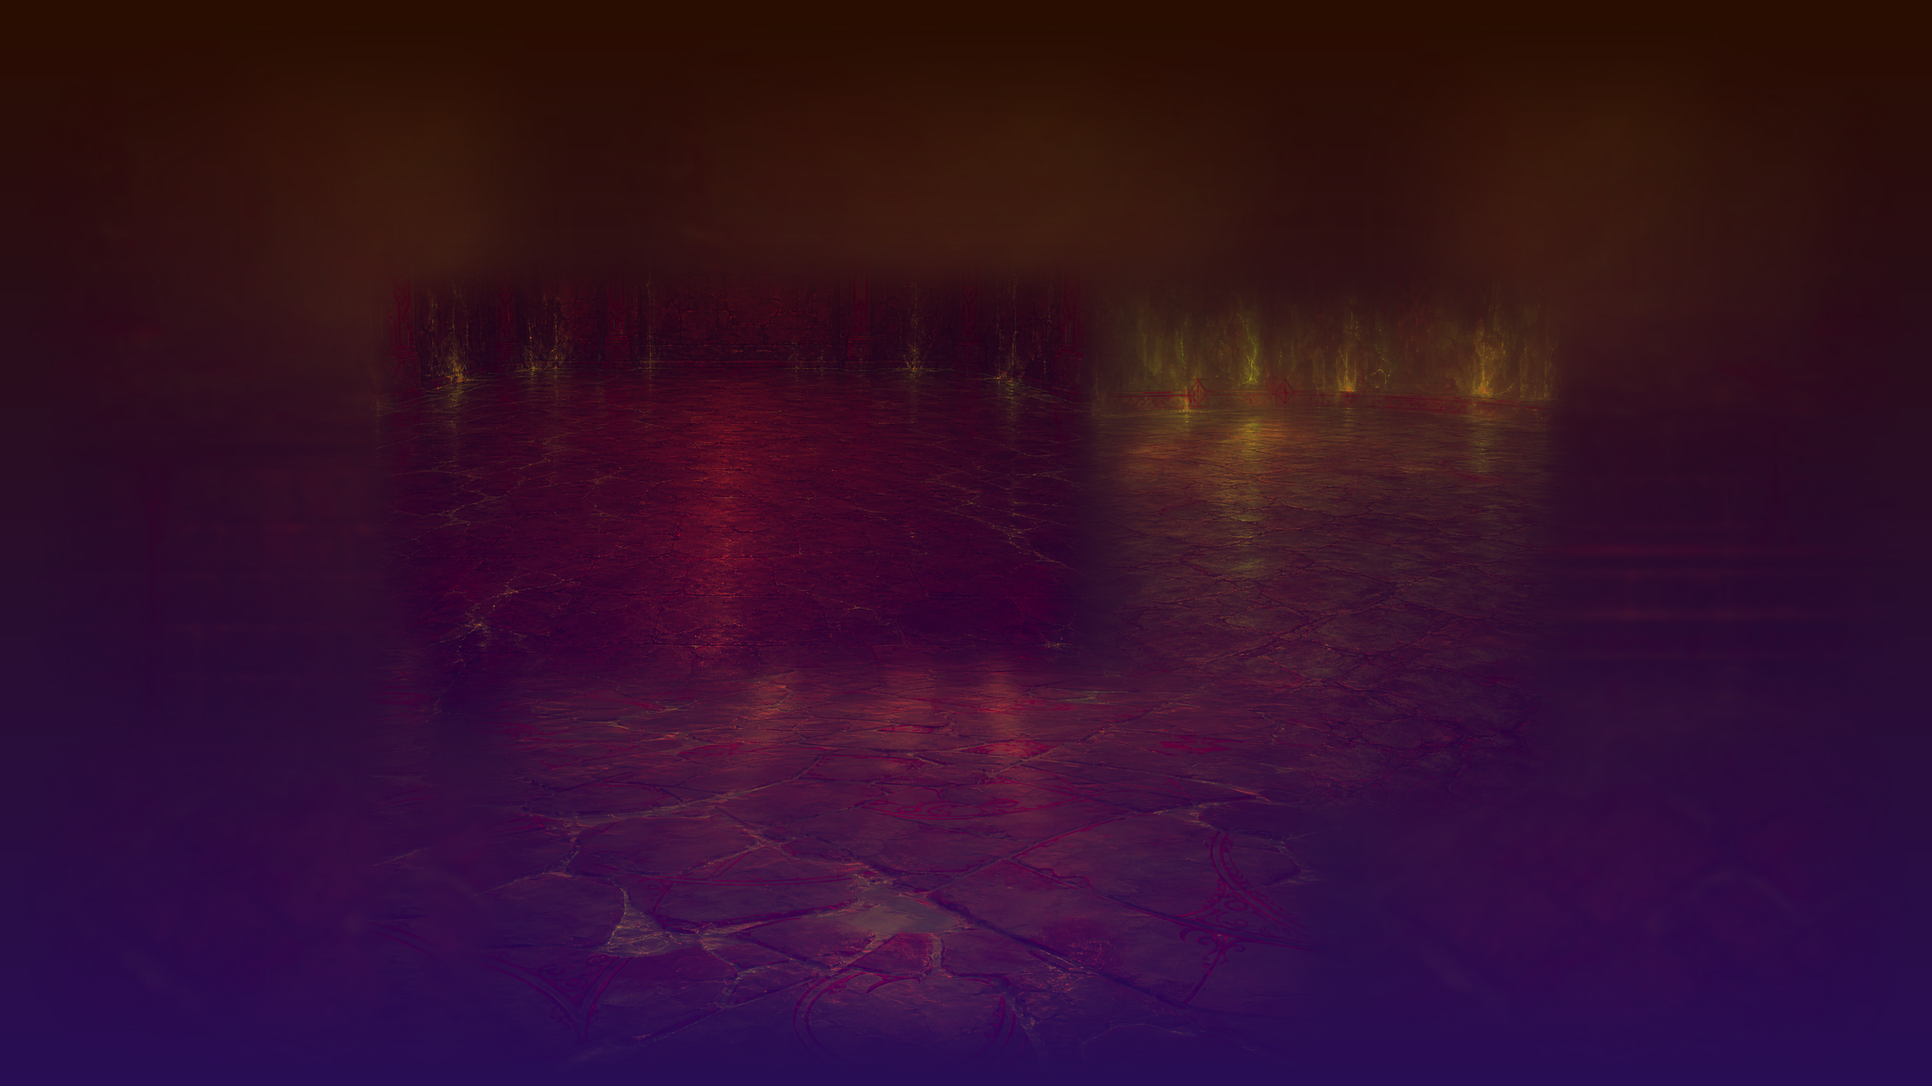
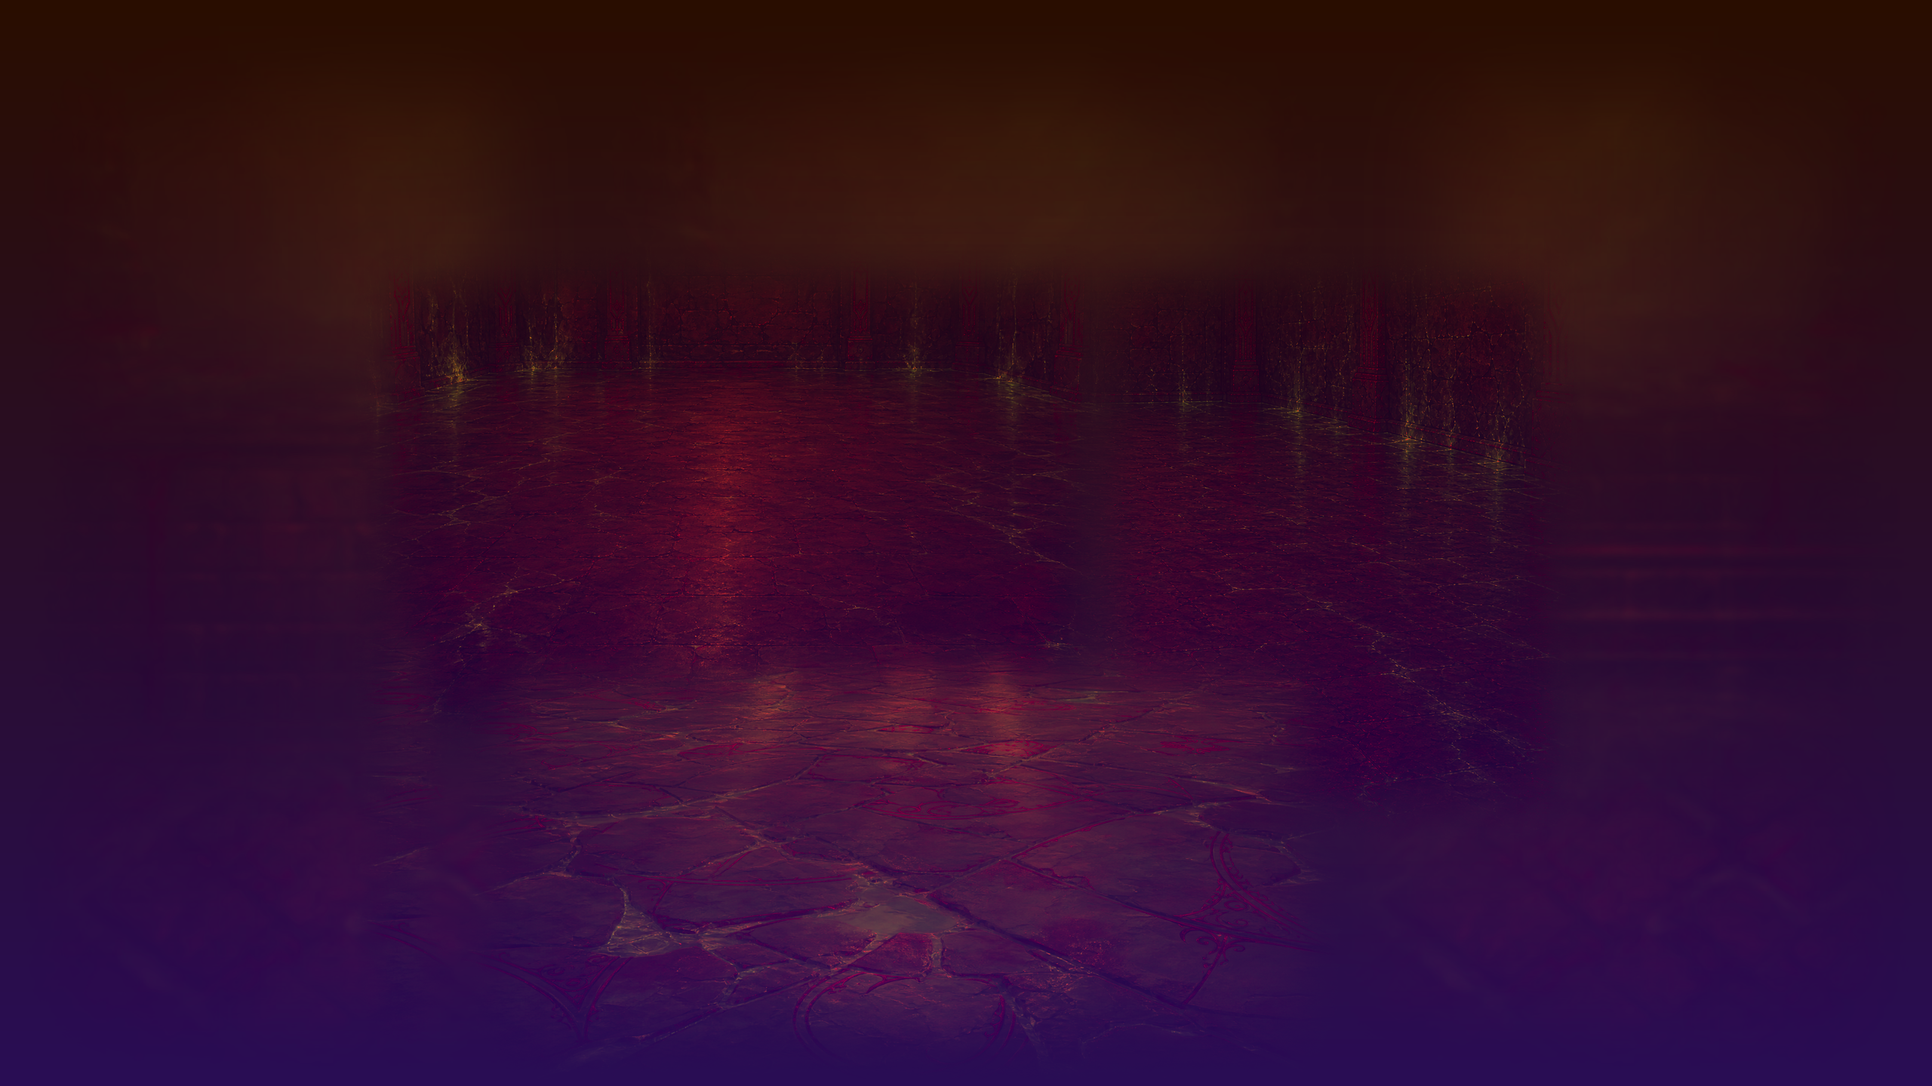
fix: harden native background delivery

Changed region(s): [[0.5625, 0.2812, 0.8125, 0.6562], [0.6875, 0.6875, 0.7188, 0.7188]]

diff --git a/tests/platform/native_room_background_asset_pipeline_tests.py b/tests/platform/native_room_background_asset_pipeline_tests.py
@@ -11,6 +11,7 @@ import tempfile
 import unittest
 from collections import Counter
 from pathlib import Path
+from shutil import copy2
 
 from PIL import Image, ImageStat
 
@@ -18,6 +19,7 @@ from PIL import Image, ImageStat
 ROOT = Path(__file__).resolve().parents[2]
 ECOLOGIES = ("fire", "water", "lightning", "chaos")
 SOURCE_MANIFEST = ROOT / "art_source/stage12/backgrounds/background-sources.json"
+CANDIDATE_MANIFEST = ROOT / "art_source/stage12/backgrounds/candidates/candidate-manifest.json"
 BUILDER = ROOT / "tools/build_native_room_backgrounds.py"
 REPORT = ROOT / "assets/stage12/room-background-build.json"
 CONTINUOUS_ROOM_ROI = (864, 486, 2976, 1674)
@@ -116,65 +118,52 @@ def edge_band_profile_jump(image: Image.Image, band: str) -> float:
     return max(abs(current - previous) for previous, current in zip(profile, profile[1:]))
 
 
+def right_overlap_metrics(image: Image.Image, main: dict[str, object], right: dict[str, object]) -> dict[str, float]:
+    """Measure the full main/right feather overlap, not one nominal boundary."""
+    main_left, main_top, main_right, main_bottom = main["target_rect"]  # type: ignore[index]
+    right_left, right_top, right_right, right_bottom = right["target_rect"]  # type: ignore[index]
+    left, end = max(main_left, right_left), min(main_right, right_right)
+    top, bottom = max(main_top, right_top) + 80, min(main_bottom, right_bottom) - 80
+    if end - left < 40 or bottom <= top:
+        raise AssertionError("main/right overlap is unexpectedly small")
+    luma = image.convert("L")
+    profile = [ImageStat.Stat(luma.crop((x, top, x + 1, bottom))).mean[0] for x in range(left, end)]
+    gradients = [abs(current - previous) for previous, current in zip(profile, profile[1:])]
+    band = max(12, len(profile) // 8)
+    return {
+        "start_luma": sum(profile[:band]) / band,
+        "end_luma": sum(profile[-band:]) / band,
+        "endpoint_drift": abs(sum(profile[:band]) / band - sum(profile[-band:]) / band),
+        "start_gradient": max(gradients[:band]),
+        "end_gradient": max(gradients[-band:]),
+        "internal_peak_gradient": max(gradients),
+    }
+
+
 class NativeRoomBackgroundAssetPipelineTests(unittest.TestCase):
-    def test_manifest_declares_four_isolated_ecologies_with_native_sources(self) -> None:
-        manifest = json.loads(SOURCE_MANIFEST.read_text(encoding="utf-8"))
-        self.assertEqual(set(manifest["ecologies"]), set(ECOLOGIES))
+    def _assert_all_ecology_build_contracts(self, root: Path) -> None:
+        builder = root / "tools/build_native_room_backgrounds.py"
+        self.assertTrue(builder.is_file())
         for ecology in ECOLOGIES:
-            entries = declared_sources(ecology)
-            self.assertGreaterEqual(len(entries), 3)
-            self.assertEqual(len({entry["path"] for entry in entries}), len(entries))
-            for entry in entries:
-                source = ROOT / entry["path"]
-                self.assertIn(f"/backgrounds/{ecology}/", entry["path"])
-                self.assertTrue(source.is_file(), source)
-                with Image.open(source) as image:
-                    self.assertGreaterEqual(image.width, 720)
-                    self.assertGreaterEqual(image.height, 720)
-
-    def test_indexed_clean_tree_contains_every_source_and_rebuilds_all_ecologies(self) -> None:
-        inputs = [entry["path"] for ecology in ECOLOGIES for entry in declared_sources(ecology)]
-        tracked = subprocess.run(["git", "ls-files", "--error-unmatch", "--", *inputs], cwd=ROOT, text=True, capture_output=True)
-        self.assertEqual(tracked.returncode, 0, tracked.stderr)
-        tree = subprocess.check_output(["git", "write-tree"], cwd=ROOT, text=True).strip()
-        with tempfile.TemporaryDirectory() as temporary:
-            archive = Path(temporary) / "candidate.tar"
-            with archive.open("wb") as stream:
-                subprocess.run(["git", "archive", "--format=tar", tree], cwd=ROOT, stdout=stream, check=True)
-            with tarfile.open(archive) as bundle:
-                bundle.extractall(temporary, filter="data")
-            clean_root = Path(temporary)
-            for path in inputs:
-                self.assertTrue((clean_root / path).is_file(), f"archive missing manifest input: {path}")
-            for ecology in ECOLOGIES:
-                rebuilt = subprocess.run([sys.executable, str(clean_root / "tools/build_native_room_backgrounds.py"), "--ecology", ecology], cwd=clean_root, text=True, capture_output=True)
-                self.assertEqual(rebuilt.returncode, 0, rebuilt.stderr or rebuilt.stdout)
-
-    def test_all_ecology_builds_are_native_distinct_and_combat_readable(self) -> None:
-        self.assertTrue(BUILDER.is_file())
-        for ecology in ECOLOGIES:
-            result = subprocess.run([sys.executable, str(BUILDER), "--ecology", ecology], cwd=ROOT, text=True, capture_output=True)
+            result = subprocess.run([sys.executable, str(builder), "--ecology", ecology], cwd=root, text=True, capture_output=True)
             self.assertEqual(result.returncode, 0, result.stderr or result.stdout)
-        report = json.loads(REPORT.read_text(encoding="utf-8"))
-        runtime_hashes: set[str] = set()
+        report = json.loads((root / "assets/stage12/room-background-build.json").read_text(encoding="utf-8"))
+        output_hashes = {"master": set(), "runtime": set(), "material": set()}
         for ecology in ECOLOGIES:
-            with self.subTest(ecology=ecology):
-                entries = declared_sources(ecology)
+            with self.subTest(root=root, ecology=ecology):
+                entries = declared_sources(ecology, root)
                 data = report["ecologies"][ecology]
-                master = ROOT / f"art_source/stage12/backgrounds/{ecology}/{ecology}-room-background-master.png"
-                runtime = ROOT / f"assets/stage12/{ecology}_room_background.png"
-                material = ROOT / f"assets/stage12/{ecology}_room_background_material.png"
+                master = root / f"art_source/stage12/backgrounds/{ecology}/{ecology}-room-background-master.png"
+                runtime = root / f"assets/stage12/{ecology}_room_background.png"
+                material = root / f"assets/stage12/{ecology}_room_background_material.png"
                 self.assertEqual(data["master_size"], [3840, 2160])
                 self.assertEqual(data["runtime_size"], [2560, 1440])
                 self.assertEqual(data["runtime_from_master"], {"resampling": "LANCZOS", "passes": 1})
-                self.assertEqual(data["source_sha256"], {entry["path"]: sha256(ROOT / entry["path"]) for entry in entries})
+                self.assertEqual(data["source_sha256"], {entry["path"]: sha256(root / entry["path"]) for entry in entries})
                 self.assertEqual(data["output_sha256"], {"master": sha256(master), "runtime": sha256(runtime), "material": sha256(material)})
                 self.assertTrue(all(f"/backgrounds/{ecology}/" in source for source in data["source_sha256"]))
-                self.assertEqual(
-                    {entry["path"] for entry in entries},
-                    {placement["source"] for placement in data["placements"]},
-                    "every declared source must be consumed by an actual placement",
-                )
+                self.assertTrue(all("/backgrounds/candidates/" not in source for source in data["source_sha256"]))
+                self.assertEqual({entry["path"] for entry in entries}, {placement["source"] for placement in data["placements"]}, "every declared source must be consumed by an actual placement")
                 continuous = [placement["target_rect"] for placement in data["placements"] if placement.get("continuous_room")]
                 self.assertTrue(rectangles_cover_roi(continuous, CONTINUOUS_ROOM_ROI))
                 continuous_details = [placement for placement in data["placements"] if placement.get("continuous_room")]
@@ -197,10 +186,6 @@ class NativeRoomBackgroundAssetPipelineTests(unittest.TestCase):
                     center = master_image.crop((1120, 1030, 2720, 1870))
                     edge = master_image.crop((864, 486, 1084, 1674))
                     self.assertGreater(len(set(center.convert("RGB").getdata())), 1)
-                    # A combat floor must be visibly textured but controlled;
-                    # the new continuous native art intentionally has a softly
-                    # vignetted outer context, so edge variance is not a proxy
-                    # for room readability.
                     self.assertGreater(luminance_stddev(center), 5.0)
                     self.assertLess(luminance_stddev(center), 42.0)
                     internal_x = sorted({rect[0] for rect in continuous if CONTINUOUS_ROOM_ROI[0] + 100 < rect[0] < CONTINUOUS_ROOM_ROI[2] - 100})
@@ -209,6 +194,14 @@ class NativeRoomBackgroundAssetPipelineTests(unittest.TestCase):
                         self.assertLess(seam_jump(master_image, "x", x, CONTINUOUS_ROOM_ROI[1] + 36, CONTINUOUS_ROOM_ROI[3] - 36), 46.0, f"hard vertical seam at x={x}")
                     for y in internal_y:
                         self.assertLess(seam_jump(master_image, "y", y, CONTINUOUS_ROOM_ROI[0] + 36, CONTINUOUS_ROOM_ROI[2] - 36), 46.0, f"hard horizontal seam at y={y}")
+                    if ecology != "fire":
+                        main = next(placement for placement in data["placements"] if placement.get("continuous_room") and "open-room" in placement["source"])
+                        right = next(placement for placement in data["placements"] if placement.get("continuous_room") and "open-right" in placement["source"])
+                        overlap = right_overlap_metrics(master_image, main, right)
+                        self.assertLess(overlap["endpoint_drift"], 5.0, f"{ecology} main/right overlap fades into a visible panel")
+                        self.assertLess(overlap["start_gradient"], 3.0, f"{ecology} main/right feather starts with a hard edge")
+                        self.assertLess(overlap["end_gradient"], 3.0, f"{ecology} main/right feather ends with a hard edge")
+                        self.assertLess(overlap["internal_peak_gradient"], 9.0, f"{ecology} main/right overlap has a structural spike")
                     share = ecology_color_share(runtime_image, ecology)
                     self.assertGreater(share, 0.008, f"{ecology} accent share too small: {share}")
                     self.assertLess(share, 0.45, f"{ecology} accent share too dominant: {share}")
@@ -216,8 +209,90 @@ class NativeRoomBackgroundAssetPipelineTests(unittest.TestCase):
                         self.assertGreater(variance, 1.0, f"{ecology} {band} edge lacks native texture")
                         self.assertLess(dominant_share, 0.45, f"{ecology} {band} edge is too close to a blank fill")
                         self.assertLess(edge_band_profile_jump(runtime_image, band), 3.0, f"{ecology} {band} has a hard panel edge")
-                runtime_hashes.add(sha256(runtime))
-        self.assertEqual(len(runtime_hashes), len(ECOLOGIES))
+                output_hashes["master"].add(sha256(master))
+                output_hashes["runtime"].add(sha256(runtime))
+                output_hashes["material"].add(sha256(material))
+        for output_kind, hashes in output_hashes.items():
+            self.assertEqual(len(hashes), len(ECOLOGIES), f"{output_kind} outputs must be unique across ecologies")
+
+    def _copy_to_clean_tree(self, destination: Path) -> None:
+        """Copy only the builder's declared formal input closure, never ROOT."""
+        destination.mkdir(parents=True)
+        builder_destination = destination / "tools/build_native_room_backgrounds.py"
+        builder_destination.parent.mkdir(parents=True)
+        copy2(ROOT / "tools/build_native_room_backgrounds.py", builder_destination)
+        manifest_destination = destination / SOURCE_MANIFEST.relative_to(ROOT)
+        manifest_destination.parent.mkdir(parents=True)
+        copy2(SOURCE_MANIFEST, manifest_destination)
+        (destination / "assets/stage12").mkdir(parents=True)
+        for ecology in ECOLOGIES:
+            for entry in declared_sources(ecology):
+                source = ROOT / entry["path"]
+                target = destination / entry["path"]
+                target.parent.mkdir(parents=True, exist_ok=True)
+                copy2(source, target)
+
+    def test_manifest_declares_four_isolated_ecologies_with_native_sources(self) -> None:
+        manifest = json.loads(SOURCE_MANIFEST.read_text(encoding="utf-8"))
+        self.assertEqual(set(manifest["ecologies"]), set(ECOLOGIES))
+        for ecology in ECOLOGIES:
+            entries = declared_sources(ecology)
+            self.assertGreaterEqual(len(entries), 3)
+            self.assertEqual(len({entry["path"] for entry in entries}), len(entries))
+            for entry in entries:
+                source = ROOT / entry["path"]
+                self.assertIn(f"/backgrounds/{ecology}/", entry["path"])
+                self.assertTrue(source.is_file(), source)
+                with Image.open(source) as image:
+                    self.assertGreaterEqual(image.width, 720)
+                    self.assertGreaterEqual(image.height, 720)
+
+    def test_retained_candidates_are_traceable_but_never_formal_inputs(self) -> None:
+        self.assertTrue(CANDIDATE_MANIFEST.is_file())
+        candidate_manifest = json.loads(CANDIDATE_MANIFEST.read_text(encoding="utf-8"))
+        self.assertEqual(candidate_manifest["schema_version"], 1)
+        formal_sources = {entry["path"] for ecology in ECOLOGIES for entry in declared_sources(ecology)}
+        candidates = candidate_manifest["candidates"]
+        self.assertGreaterEqual(len(candidates), 11)
+        for entry in candidates:
+            with self.subTest(path=entry["path"]):
+                candidate = ROOT / entry["path"]
+                self.assertIn("/backgrounds/candidates/", entry["path"])
+                self.assertTrue(candidate.is_file(), candidate)
+                self.assertNotIn(entry["path"], formal_sources)
+                self.assertIn(entry["status"], {"rejected", "superseded"})
+                self.assertTrue(entry["reason"])
+                self.assertTrue(entry["prompt"])
+                self.assertEqual(entry["generated_on"], "2026-07-23")
+                self.assertEqual(sha256(candidate), entry["sha256"])
+                with Image.open(candidate) as image:
+                    self.assertEqual(list(image.size), entry["dimensions"])
+                self.assertIn(entry["replaced_by"], formal_sources)
+
+    def test_indexed_clean_tree_contains_every_source_and_rebuilds_all_ecologies(self) -> None:
+        inside_worktree = subprocess.run(["git", "rev-parse", "--is-inside-work-tree"], cwd=ROOT, text=True, capture_output=True)
+        if inside_worktree.returncode != 0 or inside_worktree.stdout.strip() != "true":
+            self.skipTest("Git index source check requires a Git worktree; portable clean-tree rebuild remains covered separately")
+        inputs = [entry["path"] for ecology in ECOLOGIES for entry in declared_sources(ecology)]
+        tracked = subprocess.run(["git", "ls-files", "--error-unmatch", "--", *inputs], cwd=ROOT, text=True, capture_output=True)
+        self.assertEqual(tracked.returncode, 0, tracked.stderr)
+        tree = subprocess.check_output(["git", "write-tree"], cwd=ROOT, text=True).strip()
+        with tempfile.TemporaryDirectory() as temporary:
+            archive = Path(temporary) / "candidate.tar"
+            with archive.open("wb") as stream:
+                subprocess.run(["git", "archive", "--format=tar", tree], cwd=ROOT, stdout=stream, check=True)
+            with tarfile.open(archive) as bundle:
+                bundle.extractall(temporary, filter="data")
+            clean_root = Path(temporary)
+            for path in inputs:
+                self.assertTrue((clean_root / path).is_file(), f"archive missing manifest input: {path}")
+            self._assert_all_ecology_build_contracts(clean_root)
+
+    def test_all_ecology_builds_are_native_distinct_and_combat_readable(self) -> None:
+        with tempfile.TemporaryDirectory() as temporary:
+            clean_root = Path(temporary) / "clean-tree"
+            self._copy_to_clean_tree(clean_root)
+            self._assert_all_ecology_build_contracts(clean_root)
 
 
 if __name__ == "__main__":

diff --git a/.superpowers/sdd/native-background-task-2-report.md b/.superpowers/sdd/native-background-task-2-report.md
@@ -6,7 +6,7 @@
 ## RED 到 GREEN
 
 - RED：任务开始时仅有火生态的原生背景管线；水、雷、混沌没有清单来源和三件套输出，四生态构建/来源隔离合同失败。
-- GREEN：`python -m unittest tests.platform.native_room_background_asset_pipeline_tests -v` 通过，3 项测试均为 `OK`。
+- GREEN：`python -m unittest tests.platform.native_room_background_asset_pipeline_tests -v` 通过，4 项测试均为 `OK`。
 - 该测试覆盖四生态（含既有 fire）：精确 master/runtime/material 尺寸、单次 LANCZOS 下采样、清单来源隔离、clean-index `git archive` 后的可重建性、每个清单来源均被 placement 实际消费、零放大矩形交叉校验、ROI 连通、来源/输出 SHA、生态输出唯一性、边带非空白、硬横/竖面板边、连续区重复裁切与生态色比例。
 
 ## 最终构建设计
@@ -27,28 +27,28 @@
[19 lines of base64/hex data omitted]
 
 ## 输出与 placement 证明
 
 | 生态 | placements / 连续 ROI | scale 范围 | master SHA-256 | runtime SHA-256 | material SHA-256 |
 |---|---:|---:|---|---|---|
[7 lines of base64/hex data omitted]
 
 每个 Task 2 placement 的 `scale_x` 与 `scale_y` 均为 1.0；输出颜色图由对应母版仅一次 LANCZOS 下采样生成。`assets/stage12/room-background-build.json` 保存完整 source SHA、源/目标矩形和连续 ROI 覆盖证明。
 
@@ -61,3 +61,18 @@
 ## 哈希稳定性
 
 在 GREEN 后对四生态依次重建两轮，并比较每个 master/runtime/material 的 SHA-256；两轮结果完全一致。随后运行 clean-index archive rebuild 测试，归档工作树同样可完整重建四生态。
+
+最终验证记录：
+
+- 工作树完整模块：4/4 PASS，30.693 秒。
+- `git write-tree` + `git archive` 解压后的真实无 `.git` 目录：完整模块 4 项中 3 项 PASS，1 项 Git-index 专属检查按设计明确 SKIP；可移植构建合同全部执行并通过，14.025 秒。
+- 无 Git 归档目录连续两轮重建四生态的 12 个 master/runtime/material 输出：`STABILITY_MISMATCHES=0`。
+- 暂存树 `git diff --cached --check`：PASS。
+
+## 复审修复
+
+- 归档可移植性：`git archive ddccbd6` 的无 `.git` 目录先稳定复现 RED：旧索引测试报 `fatal: not a git repository`。测试已拆分为可选的 Git 索引来源检查与必跑的临时无 Git 目录构建 helper；该 helper 只复制构建器、正式 source manifest、manifest 所声明的正式 PNG 和必要的输出目录，不复制整个 ROOT、无关未跟踪图或 deliverables。所有 build/output 断言仅在该最小临时闭包目录运行，故不会覆写共享工作树产物。无 Git 归档运行整个模块时，索引检查会以清晰原因 skip，其余完整构建合同继续执行。
+- 输出唯一性：master、runtime、material 三类 SHA 均单独要求四生态唯一。
+- 候选治理：审查指出的 11 张未消费候选已 `git mv` 到 `art_source/stage12/backgrounds/candidates/{water,lightning,chaos}/`；为防止 v6 替换后遗留，3 张 v5 右延展也一并移入，现共 14 张。`candidates/candidate-manifest.json` 对每张记录 `status`、replacement、ImageGen prompt、日期、尺寸与 SHA-256；README 明确禁止正式清单、构建器、runtime 和 package 消费该目录。
+- 右延展 RED：旧 v5 的 main/right 全重叠端点亮度漂移为 water `7.55`、lightning `27.23`，在 `< 5.0` 的连续性门槛下可靠失败。以对应 `open-room-v5` 编辑生成 portrait `open-right-v6` 后，三生态变为 water `1.62`、lightning `0.90`、chaos `3.16`；起点与结束梯度均 `< 3.0`。雷图 overlap 内的 `7.93` 内部峰值被定位为合法蓝白裂隙纹理，结构峰值阈值为 `< 9.0`，不是放宽端点门槛。
+- 最终人工复核：water、lightning、chaos 的 v6 右延展均 PASS；完整 16:9 中中央地面连通，无门、洞、柱、能量束、瀑布、障碍、文字或 UI。

diff --git a/art_source/stage12/backgrounds/candidates/README.md b/art_source/stage12/backgrounds/candidates/README.md
@@ -1,0 +1,5 @@
+# Retained background candidates
+
+`candidate-manifest.json` is the machine-readable archival record for rejected and superseded ImageGen outputs. These images are retained for traceability only.
+
+They are intentionally outside the formal ecology source directories. `background-sources.json`, `build_native_room_backgrounds.py`, runtime assets, and packaging must never consume `backgrounds/candidates/`.
